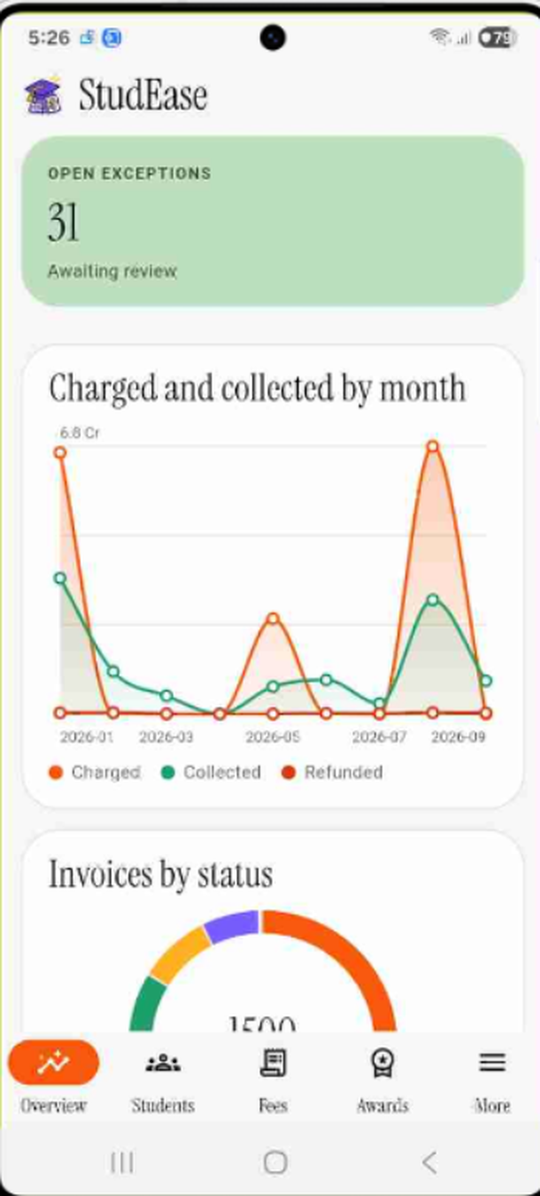
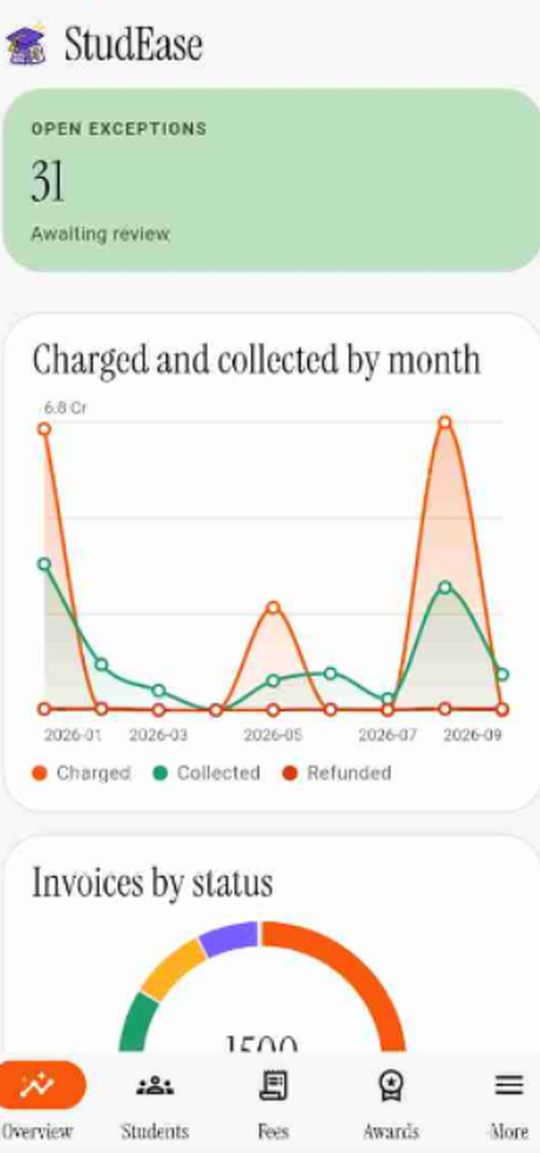
README: phone screenshots strip under the intro, cropped to the app itself

Changed region(s): [[0.0, 0.0, 1.0, 1.0]]

diff --git a/README.md b/README.md
@@ -18,6 +18,12 @@ withdrawals, resolutions) by design; all data is synthetic.
 Start with [docs/walkthrough.md](docs/walkthrough.md) (one student followed end to end) or
 [docs/architecture.md](docs/architecture.md) (every rule, with its id).
 
+<p align="center">
+  <img src="docs/screenshots/mobile/phones.png" alt="The StudEase Android app: sign in, enrol, scholarships, account, staff overview">
+</p>
+
+*The Android app on a real phone. Download the APK from the [latest release](https://github.com/vbs-0/studease/releases/latest).*
+
 ## Repository structure
 
 ```mermaid
@@ -80,18 +86,6 @@ flowchart TB
 | Staff data entry | Dark theme |
 
 Also in `docs/screenshots/`: `learner-enroll.png`, `students.png`, `data-quality.png`. All are 1440 by 810 desktop captures.
-
-## Android app, on a real phone
-
-<p align="center">
-  <img src="docs/screenshots/mobile/sign-in.png" width="19%" alt="Sign in">
-  <img src="docs/screenshots/mobile/enrol.png" width="19%" alt="Enrol">
-  <img src="docs/screenshots/mobile/scholarships.png" width="19%" alt="Scholarships">
-  <img src="docs/screenshots/mobile/more.png" width="19%" alt="Account and settings">
-  <img src="docs/screenshots/mobile/overview.png" width="19%" alt="Staff overview">
-</p>
-
-Sign in, enrol, scholarships, account settings and the staff overview, captured on a physical Android phone. Download the APK from the [latest release](https://github.com/vbs-0/studease/releases/latest); details in [Android app](#android-app) below.
 
 ## Quick start
 
@@ -315,14 +309,6 @@ Beyond the required features, these are implemented and tested or checkable in t
 ## Android app
 
 The same product as a native Android app, in [`mobile/`](mobile): Flutter 3.44, Material 3, about 2,600 lines of Dart, no code generation. It talks to the same live API as the website, so every rule (roles, idempotent payments, the append-only ledger) is enforced by the server, never by the phone.
-
-<p align="center">
-  <img src="docs/screenshots/mobile/sign-in.png" width="19%" alt="Sign in">
-  <img src="docs/screenshots/mobile/enrol.png" width="19%" alt="Enrol">
-  <img src="docs/screenshots/mobile/scholarships.png" width="19%" alt="Scholarships">
-  <img src="docs/screenshots/mobile/more.png" width="19%" alt="Account and settings">
-  <img src="docs/screenshots/mobile/overview.png" width="19%" alt="Staff overview">
-</p>
 
 ### What it does, by role
 
